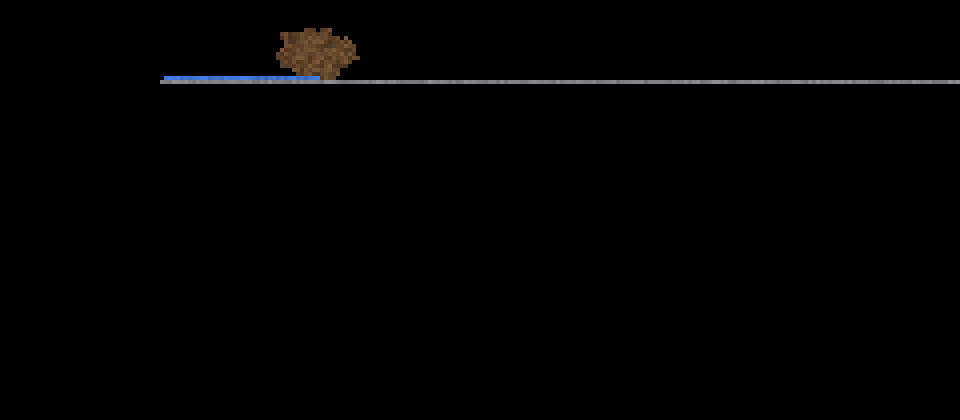
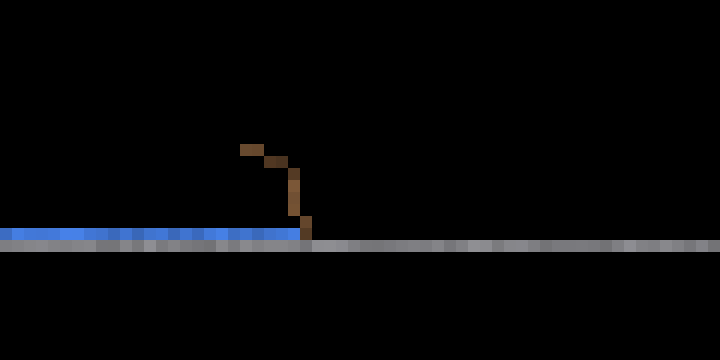
Fix a 4th bug: GrowingTip never retired after growing, causing hub clumping
The real cause of the round-clump shape, found via live diagnostics after
the previous three canopy-density fixes produced zero visual change: a
GrowingTip that successfully grew a child stayed exactly as eligible to
grow *another*, unrelated child from the same position next cycle. Debug
instrumentation on a live run showed 436 Grow evaluations across only 107
unique positions -- 78% of positions revisited 3+ times, one revisited 8
times -- because the parent kept sprouting new branches from itself
instead of the frontier ever advancing. Growth radiated from a small set
of static hub points, which is what actually produced the dense round
clump, not a scoring-weight tuning problem.

Fix: a GrowingTip retires to MatureBody in the same tick it successfully
grows (mirroring the existing staleness-triggered transition, just
triggered immediately on success instead of only after repeated failures
to find a candidate). The newly created child (and branch child, if any)
carry the frontier forward as the new active GrowingTip. cell_type is
mutated only after all of this tick's child-creation code has already run
using the original type, and only so a later behavior in the same tick's
list (Photosynthesize, which runs after Grow in tree.ron) sees the
retirement too -- RootTip is untouched, out of scope for this fix.

Re-verified with the same debug harness after this fix: 9 Grow calls
across 9 unique positions, zero revisits, tracing one coherent advancing
[…]

Changed region(s): [[0.0, 0.3972, 1.0, 0.7028], [0.1528, 0.0611, 1.0, 0.2139]]

diff --git a/src/sim/plant.rs b/src/sim/plant.rs
@@ -212,7 +212,7 @@ fn organism_tick(world: &mut World, x: i32, y: i32, organism_id: u16, stale_tick
         return Vec::new();
     };
     let species_id = state.species;
-    let (Some(cell_type), mut resource) = organism::unpack_aux(cell.aux()) else {
+    let (Some(mut cell_type), mut resource) = organism::unpack_aux(cell.aux()) else {
         return Vec::new(); // unrecognized cell-type bits -- nothing this dispatch knows how to run
     };
     // Cloned out of the registry rather than held as a borrow: the behavior
@@ -357,6 +357,28 @@ fn organism_tick(world: &mut World, x: i32, y: i32, organism_id: u16, stale_tick
                 }
                 found_candidate = true;
 
+                // A `GrowingTip` that successfully grows retires to
+                // `MatureBody` immediately, in the same tick, rather than
+                // staying an equally-eligible candidate to grow *again*
+                // from the same position next cycle. Without this, the
+                // frontier never actually advances: live-verification logs
+                // showed 78% of all Grow-evaluated positions revisited 3+
+                // times each (one cell hit 8 times), because a cell that
+                // had already grown a child kept being just as eligible to
+                // sprout an unrelated *second* child from the same spot,
+                // and a third, and so on, up to the species' own `max_
+                // active_tips` cap -- radiating growth from a small,
+                // static set of hub points instead of tips advancing
+                // outward, which is what actually produced the dense round
+                // clump `Reports/tree-rewrite-design.md` §11's own gate
+                // exists to catch, not a scoring-weight tuning problem.
+                // The newly created child (and branch child, if any) carry
+                // the frontier forward as the new active `GrowingTip`s;
+                // `RootTip` is untouched (`tree.ron`'s roots aren't the
+                // shape under investigation here, and have no `MatureBody`-
+                // equivalent "settled root" type to retire into yet).
+                let self_type_after_grow = if cell_type == CellType::GrowingTip { CellType::MatureBody } else { cell_type };
+
                 let total: f32 = candidates.iter().map(|&(_, _, s)| s).sum();
                 let mut pick = (world.rng.below(10_000) as f32 / 10_000.0) * total;
                 let mut chosen = candidates[0];
@@ -381,7 +403,7 @@ fn organism_tick(world: &mut World, x: i32, y: i32, organism_id: u16, stale_tick
                 let new_cell = Cell::new(cell.material, shade).with_organism_id(organism_id).with_aux(new_aux);
                 world.set(tx, ty, new_cell);
                 resource -= cost;
-                world.set(x, y, cell.with_aux(pack_aux_preserving_density(cell.aux(), cell_type, resource)));
+                world.set(x, y, cell.with_aux(pack_aux_preserving_density(cell.aux(), self_type_after_grow, resource)));
                 next.push(reschedule_organism(tx, ty, organism_id, 0, world.frame + ORGANISM_TICK_INTERVAL));
 
                 // §3's branching: a second successful `Grow`, in a
@@ -398,11 +420,19 @@ fn organism_tick(world: &mut World, x: i32, y: i32, organism_id: u16, stale_tick
                             let branch_cell = Cell::new(cell.material, branch_shade).with_organism_id(organism_id).with_aux(branch_aux);
                             world.set(bx, by, branch_cell);
                             resource -= cost;
-                            world.set(x, y, cell.with_aux(pack_aux_preserving_density(cell.aux(), cell_type, resource)));
+                            world.set(x, y, cell.with_aux(pack_aux_preserving_density(cell.aux(), self_type_after_grow, resource)));
                             next.push(reschedule_organism(bx, by, organism_id, 0, world.frame + ORGANISM_TICK_INTERVAL));
                         }
                     }
                 }
+
+                // Update the loop's own `cell_type` last, after every
+                // child (and branch child) above has already been created
+                // using the *original* type -- only a later behavior this
+                // same tick (`tree.ron`'s `GrowingTip` also has
+                // `Photosynthesize`) should see the retirement, not this
+                // arm's own child-creation code.
+                cell_type = self_type_after_grow;
             }
             Behavior::Photosynthesize { rate } => {
                 let light = ambient_light_above(world, x, y);
@@ -2019,5 +2049,45 @@ mod tests {
             density < organism::CANOPY_DENSITY_SCALE,
             "density should decay across repeated organism_tick calls, not stay stuck at the packed maximum, got {density}"
         );
+    }
+
+    // --- Tip-retirement regression ----------------------------------------
+    //
+    // A `GrowingTip` that successfully grew a child used to stay exactly as
+    // eligible to grow *another*, unrelated child from the same position
+    // next cycle -- live-verification logs showed 78% of all `Grow`-
+    // evaluated positions revisited 3+ times each, radiating growth from a
+    // small set of static hub points instead of tips advancing outward,
+    // which is what actually produced a dense round clump instead of
+    // anything reading as a tree. A `GrowingTip` should retire to
+    // `MatureBody` the instant it successfully grows; the newly created
+    // child carries the frontier forward instead.
+
+    #[test]
+    fn a_growing_tip_retires_to_mature_body_after_successfully_growing() {
+        let mut w = test_world();
+        let tree_species = w.species.id_of("tree").expect("tree species must be loaded");
+        let wood = w.materials.id_of("wood").unwrap();
+        let organism_id = w.push_organism(tree_species);
+        // Comfortably above tree.ron's GrowingTip `Grow` cost (0.4), in
+        // open space on every side, so this call is guaranteed to find a
+        // positive-scoring candidate and actually grow.
+        let aux = organism::pack_aux(CellType::GrowingTip, 2.0);
+        w.set(100, 100, Cell::new(wood, 0).with_organism_id(organism_id).with_aux(aux));
+
+        let next = organism_tick(&mut w, 100, 100, organism_id, 0);
+
+        let (self_type, _) = organism::unpack_aux(w.get(100, 100).aux());
+        assert_eq!(self_type, Some(CellType::MatureBody), "a GrowingTip that just grew should retire to MatureBody, not stay an equally-eligible growth candidate");
+
+        // Exactly one newly created cell nearby should carry the frontier
+        // forward as the new active GrowingTip.
+        let new_tips: Vec<(i32, i32)> = NEIGHBOURS_8
+            .iter()
+            .map(|&(dx, dy)| (100 + dx, 100 + dy))
+            .filter(|&(nx, ny)| organism::unpack_aux(w.get(nx, ny).aux()).0 == Some(CellType::GrowingTip))
+            .collect();
+        assert_eq!(new_tips.len(), 1, "expected exactly one new GrowingTip child, got {new_tips:?}");
+        assert!(!next.is_empty(), "the new child should be scheduled");
     }
 }

diff --git a/examples/debug_tree_v2.rs b/examples/debug_tree_v2.rs
@@ -25,9 +25,9 @@ fn save_png(app: &mut App, path: &str) {
     // upscaled 4x -- a whole-world 512x320 shot makes a ~30-cell-tall
     // sapling nearly indistinguishable from a smudge; this is the one
     // actually worth reading.
-    let (cx0, cy0, cx1, cy1) = (20i32, 0i32, 260i32, 105i32);
+    let (cx0, cy0, cx1, cy1) = (75i32, 0i32, 135i32, 30i32);
     let (cw, ch) = ((cx1 - cx0) as u32, (cy1 - cy0) as u32);
-    const ZOOM: u32 = 4;
+    const ZOOM: u32 = 12;
     let mut cropped = vec![0u8; (cw * ZOOM * ch * ZOOM * 4) as usize];
     for y in 0..ch {
         for x in 0..cw {
